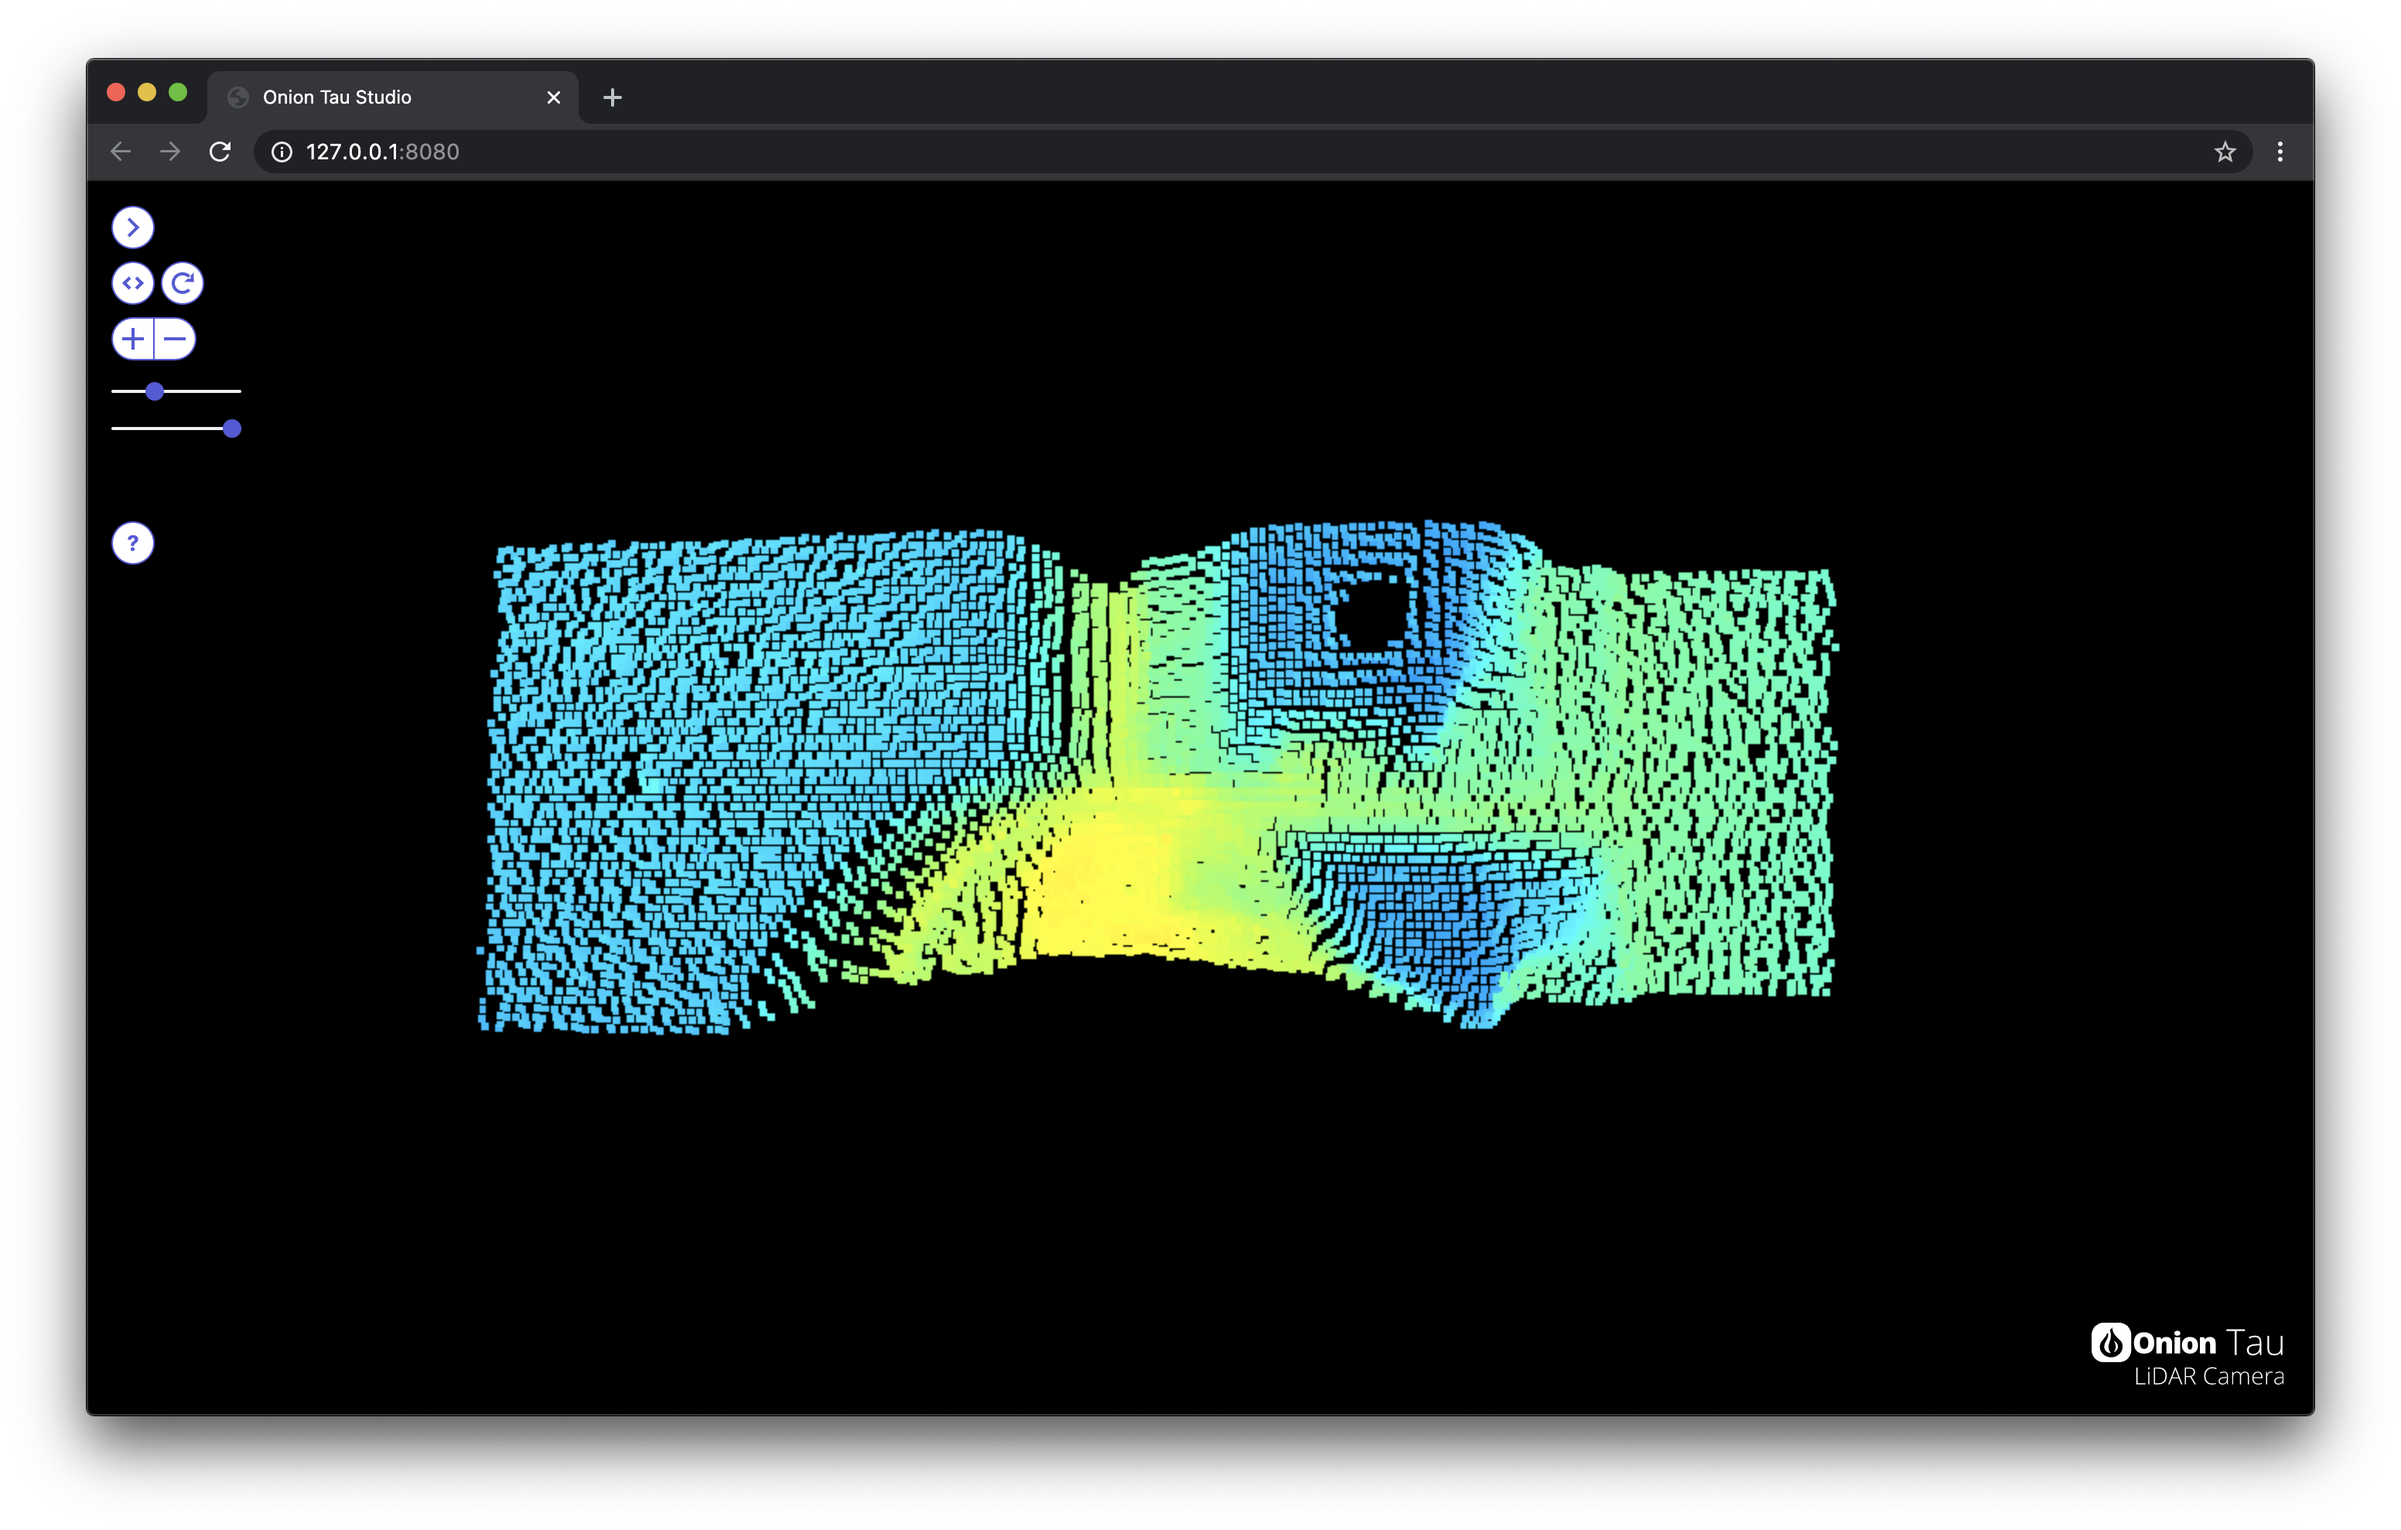
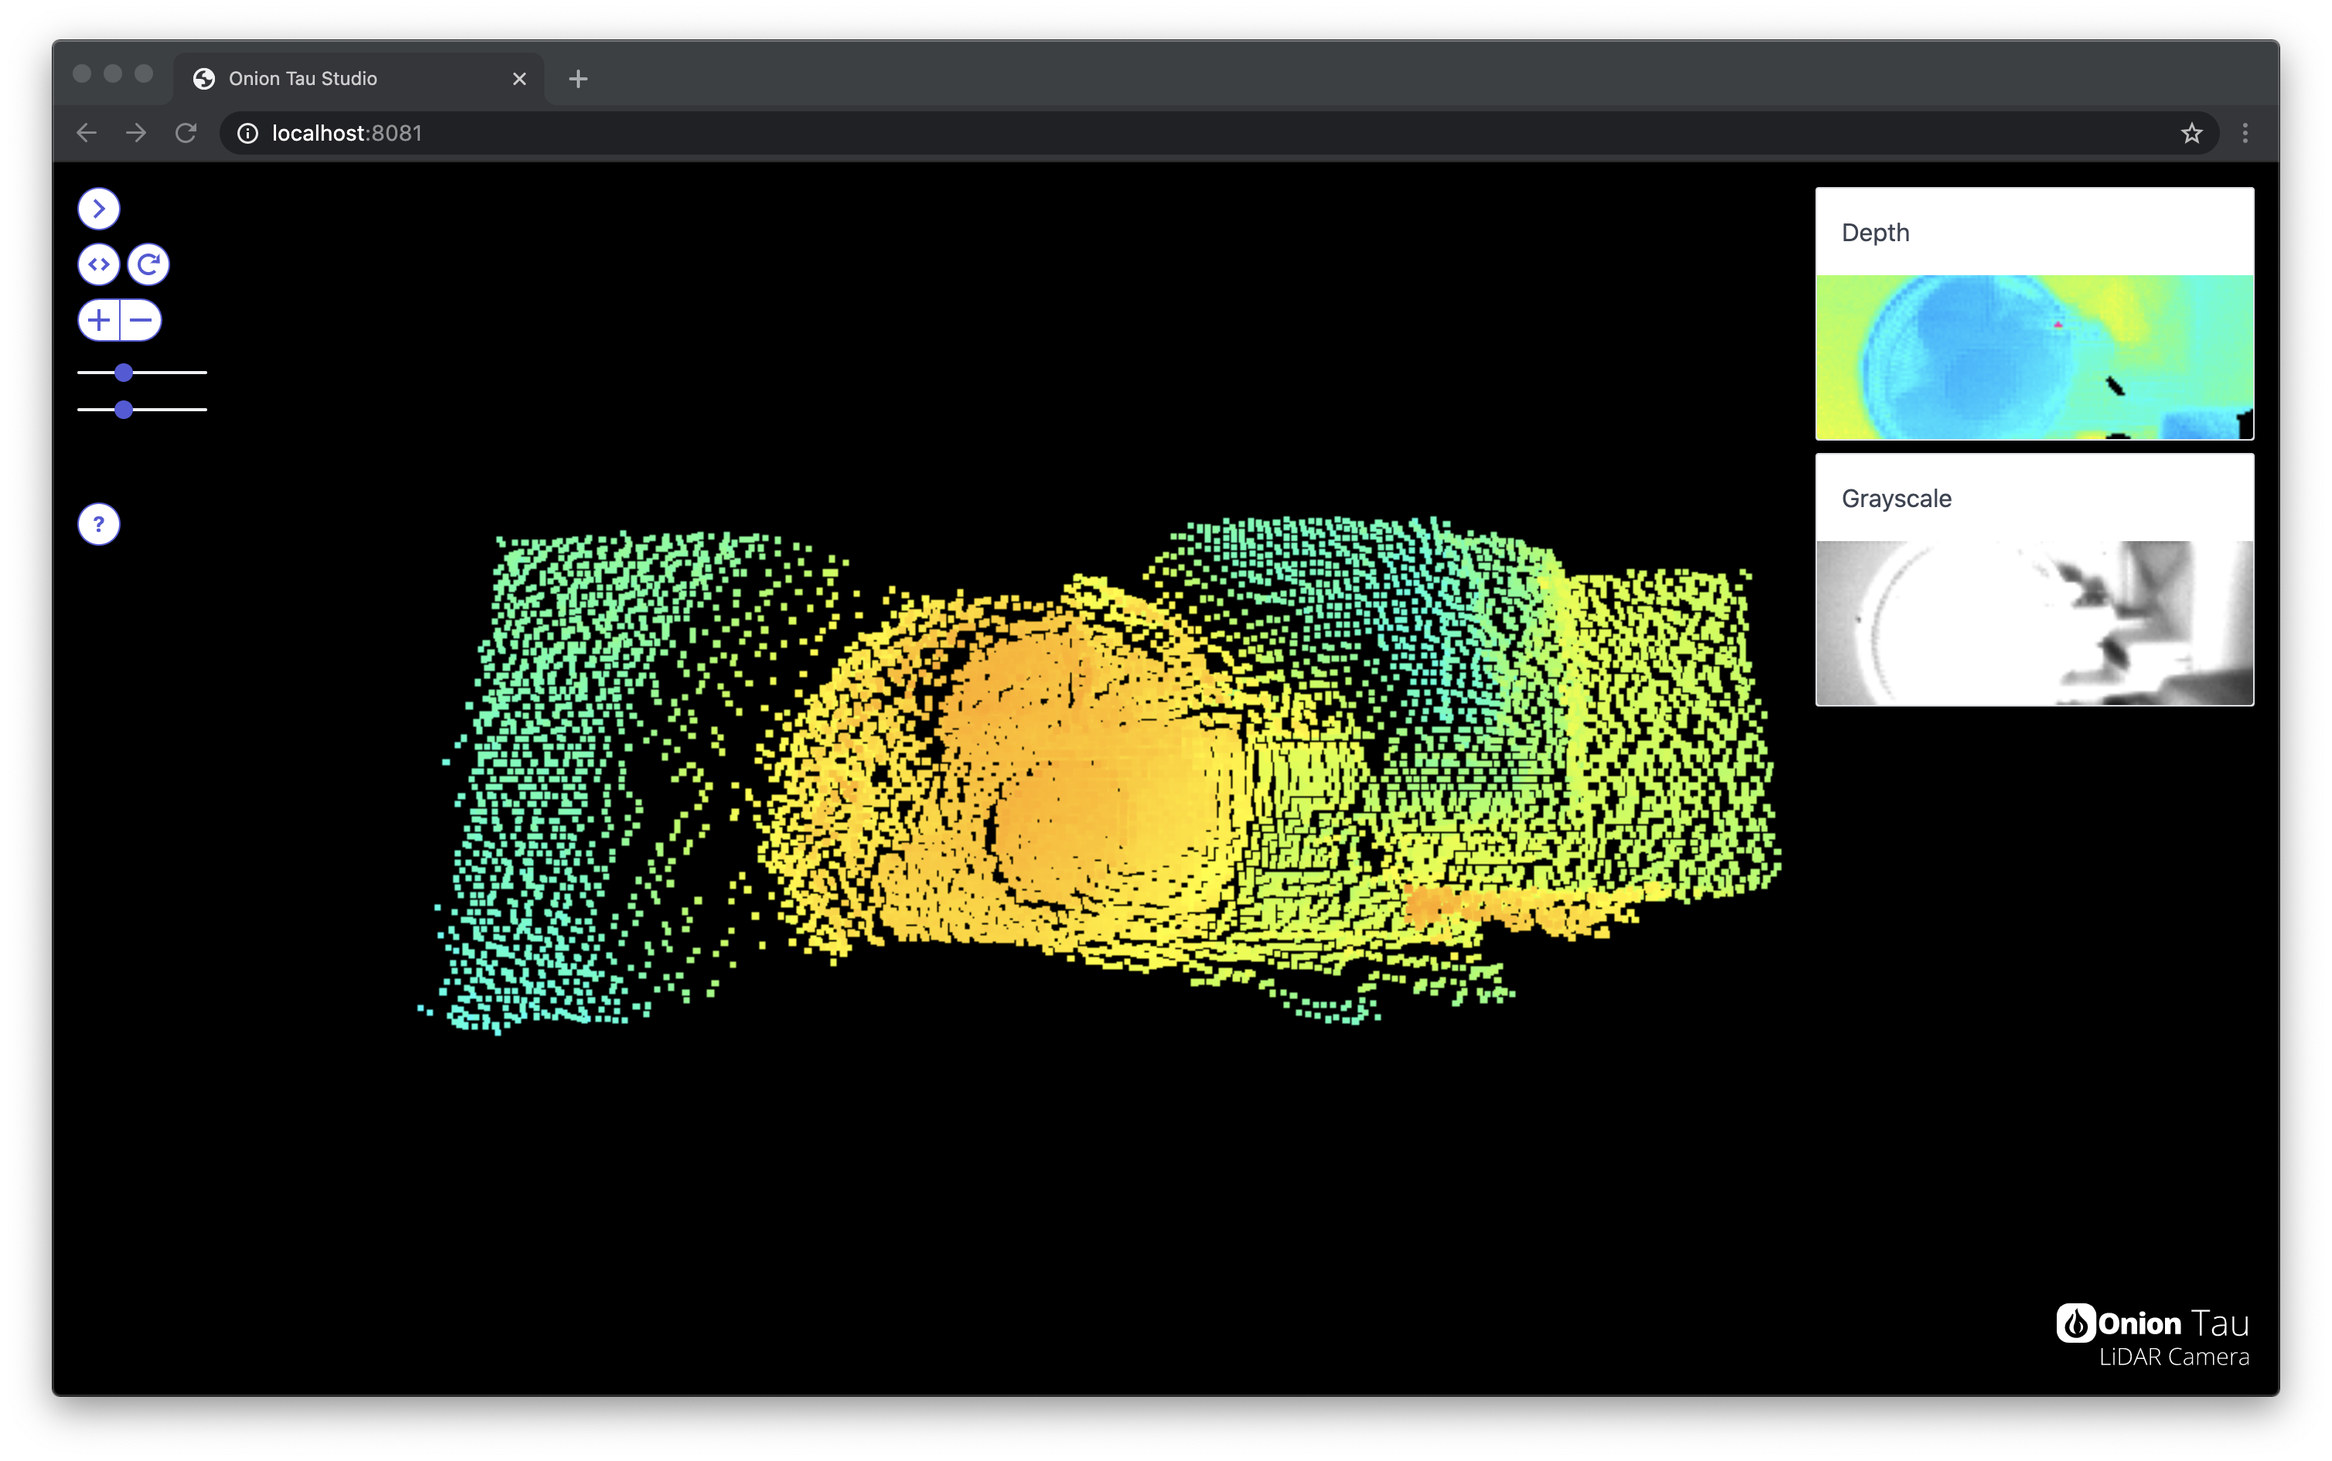
changed amplitude window title to grayscale and updated screenshot

diff --git a/TauLidarServer/index.html b/TauLidarServer/index.html
@@ -28,24 +28,24 @@
                 justify-content: center;
             }
         </style>
-        
+
     </head>
 
   <body>
     <div id='app'>
 
-        
+
         <div v-if="loaded" id="ui" class="p-absolute m-2" style="max-width: 100px; z-index: 90;">
 
             <div class="m-2">
 
                 <div class="btn-group d-block mb-2">
-                    <div @click="autoRefresh = !autoRefresh" class='btn btn-action s-circle btn-sm tooltip tooltip-right' 
+                    <div @click="autoRefresh = !autoRefresh" class='btn btn-action s-circle btn-sm tooltip tooltip-right'
                         data-tooltip="Play | Pause" :class="{'btn-primary': autoRefresh}">
                         <i class="icon icon-arrow-right"></i>
                     </div>
                 </div>
-                
+
                 <div class="d-block mb-2">
                     <div @click="resetView" class='btn btn-action s-circle btn-sm tooltip tooltip-right mr-1'
                         data-tooltip="Reset Camera">
@@ -61,11 +61,11 @@
                     <div class="btn btn-sm btn-action s-circle" @click="pointSize('up')" ><i class="icon icon-plus"></i></div>
                     <div class="btn btn-sm btn-action s-circle" @click="pointSize('down')"><i class="icon icon-minus"></i></div>
                 </div>
-    
+
                 <input type="range"  min="10" max="7000" step="10" class="slider tooltip tooltip-right" @change="setRange" :value="viewDistance"
                     :data-tooltip="`Color Range: ${viewDistance/1000} m`">
-    
-                <input type="range"  min="0" max="1000" step="5" class="slider tooltip tooltip-right" @change="setIntTime3D" :value="intTime3D" 
+
+                <input type="range"  min="0" max="1000" step="5" class="slider tooltip tooltip-right" @change="setIntTime3D" :value="intTime3D"
                     :data-tooltip="`3D Intergration Time ${intTime3D} us`">
             </div>
 
@@ -76,7 +76,7 @@
                         <strong>?</strong>
                 </div>
             </div>
-            
+
         </div>
 
         <div div v-if="loaded" id="pip" class="p-absolute m-2" style="max-width: 300px; z-index: 90; right:0px">
@@ -94,7 +94,7 @@
             <div class="card m-2">
                 <div class="card-header">
                     <!-- <div class="card-title h5">Depth</div> -->
-                    <div class="card-subtitle">Amplitude</div>
+                    <div class="card-subtitle">Grayscale</div>
                 </div>
                 <div class="card-image">
                   <img id="amplitudeView" src="" class="img-responsive" style="width: 300px;">
@@ -102,7 +102,7 @@
             </div>
 
         </div>
-        
+
         <div v-show="!loaded" class="splash-screen p-absolute d-flex">
             <div class="lds-ripple"><div></div><div></div></div>
         </div>
@@ -118,11 +118,11 @@
                       <div class="content">
                         <h4>Pan, Zoom, Rotate</h4>
 
-                        <p> 🌐 3D Rotate - Click and drag 
+                        <p> 🌐 3D Rotate - Click and drag
                             <br>
-                            ↔ 2D Pan - Right-click and drag    
+                            ↔ 2D Pan - Right-click and drag
                             <br>
-                            🔍 Zoom - Scroll up and down 
+                            🔍 Zoom - Scroll up and down
                         </p>
 
 
@@ -171,7 +171,7 @@
                             <br>
                             Onion Community Forum: <a href="https://community.onion.io/tau" target="_blank"> https://community.onion.io/tau </a>
                             <br>
-                            GitHub Repos: 
+                            GitHub Repos:
                                 <a href="https://github.com/OnionIoT/tau-lidar-camera" target="_blank"> tau-lidar-camera </a>,
                                 <a href="https://github.com/OnionIoT/tau-lidar-common" target="_blank"> tau-lidar-common </a>,
                                 <a href="https://github.com/OnionIoT/tau-lidar-server" target="_blank"> tau-lidar-server </a>
@@ -183,11 +183,11 @@
                     </div>
                   </div>
           </div>
-        
+
     </div>
-    
+
     <div id="pointsView" style="width:100%; height:100%; position:relative;"> </div>
-    
+
 
 
     <a href="https://taulidar.com" target="_blank">
